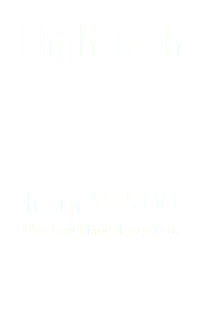
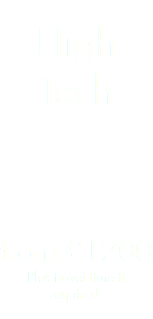
Add files via upload

diff --git a/index.html b/index.html
@@ -17,10 +17,10 @@ if(typeof Muse == "undefined") window.Muse = {}; window.Muse.assets = {"required
   <title>Matnik - Technical service for social events</title>
   <!-- CSS -->
   <link rel="stylesheet" type="text/css" href="css/site_global.css?crc=444006867"/>
-  <link rel="stylesheet" type="text/css" href="css/index.css?crc=224723055" id="pagesheet"/>
+  <link rel="stylesheet" type="text/css" href="css/index.css?crc=4175424542" id="pagesheet"/>
   <!-- IE-only CSS -->
   <!--[if lt IE 9]>
-  <link rel="stylesheet" type="text/css" href="css/nomq_index.css?crc=3898667383" id="nomq_pagesheet"/>
+  <link rel="stylesheet" type="text/css" href="css/nomq_index.css?crc=301418155" id="nomq_pagesheet"/>
   <![endif]-->
   <!-- JS includes -->
   <!--[if lt IE 9]>
@@ -31,7 +31,7 @@ if(typeof Muse == "undefined") window.Muse = {}; window.Muse.assets = {"required
  </head>
  <body>
 
-  <div class="breakpoint active" id="bp_infinity" data-min-width="961"><!-- responsive breakpoint node -->
+  <div class="breakpoint active" id="bp_infinity" data-min-width="721"><!-- responsive breakpoint node -->
    <div class="clearfix borderbox" id="page"><!-- group -->
     <div class="clearfix grpelem" id="ppu1348"><!-- column -->
      <div class="clearfix colelem" id="pu1348"><!-- group -->
@@ -69,17 +69,17 @@ if(typeof Muse == "undefined") window.Muse = {}; window.Muse.assets = {"required
       <div class="clip_frame grpelem" id="u766" data-sizePolicy="fixed" data-pintopage="page_fixedCenter"><!-- image -->
        <img class="block temp_no_img_src shared_content" id="u766_img" data-orig-src="images/pasted%20image%2036x36.png?crc=167986542" alt="" width="36" height="36" src="images/blank.gif?crc=4208392903" data-content-guid="u766_img_content"/>
       </div>
-      <img class="grpelem temp_no_img_src" id="u717-4" alt="About us" width="670" height="77" data-orig-src="images/u717-4.png?crc=163083627" src="images/blank.gif?crc=4208392903"/><!-- rasterized frame -->
+      <img class="grpelem temp_no_img_src" id="u717-4" alt="About us" width="669" height="77" data-orig-src="images/u717-4.png?crc=3796506980" src="images/blank.gif?crc=4208392903"/><!-- rasterized frame -->
      </div>
      <div class="clearfix colelem" id="pu1419"><!-- group -->
       <div class="clip_frame grpelem" id="u1419" data-sizePolicy="fluidWidthHeight" data-pintopage="page_fixedLeft"><!-- image -->
-       <img class="block temp_no_img_src" id="u1419_img" data-orig-src="images/capa%200%20copia%202.png?crc=3891860319" alt="" data-heightwidthratio="1.4341563786008231" data-image-width="486" data-image-height="697" src="images/blank.gif?crc=4208392903"/>
+       <img class="block temp_no_img_src" id="u1419_img" data-orig-src="images/capa%200%20copia%202.png?crc=3891860319" alt="" data-heightwidthratio="1.4341463414634146" data-image-width="410" data-image-height="588" src="images/blank.gif?crc=4208392903"/>
       </div>
       <div class="clip_frame grpelem" id="u1433" data-sizePolicy="fluidWidthHeight" data-pintopage="page_fixedLeft"><!-- image -->
-       <img class="block temp_no_img_src" id="u1433_img" data-orig-src="images/layer%200.png?crc=266156078" alt="" data-heightwidthratio="1.2667876588021778" data-image-width="551" data-image-height="698" src="images/blank.gif?crc=4208392903"/>
+       <img class="block temp_no_img_src" id="u1433_img" data-orig-src="images/layer%200.png?crc=266156078" alt="" data-heightwidthratio="1.2666666666666666" data-image-width="465" data-image-height="589" src="images/blank.gif?crc=4208392903"/>
       </div>
       <div class="clip_frame grpelem" id="u1611" data-sizePolicy="fluidWidthHeight" data-pintopage="page_fixedCenter"><!-- image -->
-       <img class="block temp_no_img_src" id="u1611_img" data-orig-src="images/fade-crop-u1611.png?crc=245970776" alt="" data-heightwidthratio="0.50859375" data-image-width="1280" data-image-height="651" src="images/blank.gif?crc=4208392903"/>
+       <img class="block temp_no_img_src" id="u1611_img" data-orig-src="images/fade-crop-u1611.png?crc=4052844209" alt="" data-heightwidthratio="0.5092592592592593" data-image-width="1080" data-image-height="550" src="images/blank.gif?crc=4208392903"/>
       </div>
       <div class="clearfix grpelem" id="u1416-14" data-sizePolicy="fixed" data-pintopage="page_fixedCenter"><!-- content -->
        <p class="shared_content" data-content-guid="u1416-14_0_content">We are a new company run by two brothers with more than 12 years of technical experience in social events.</p>
@@ -97,7 +97,7 @@ if(typeof Muse == "undefined") window.Muse = {}; window.Muse.assets = {"required
 </span>
       </div>
       <div class="clip_frame grpelem" id="u1634" data-sizePolicy="fluidWidthHeight" data-pintopage="page_fixedCenter" data-leftAdjustmentDoneBy="pu1275"><!-- image -->
-       <img class="block temp_no_img_src" id="u1634_img" data-orig-src="images/fade-crop-u1634.png?crc=54391656" alt="" data-heightwidthratio="0.2" data-image-width="1790" data-image-height="358" src="images/blank.gif?crc=4208392903"/>
+       <img class="block temp_no_img_src" id="u1634_img" data-orig-src="images/fade-crop-u1634.png?crc=430070315" alt="" data-heightwidthratio="0.2" data-image-width="1510" data-image-height="302" src="images/blank.gif?crc=4208392903"/>
       </div>
      </div>
      <img class="colelem temp_no_img_src" id="u632-4" alt="Service Packages " width="669" height="77" data-orig-src="images/u632-4.png?crc=4208278802" src="images/blank.gif?crc=4208392903"/><!-- rasterized frame -->
@@ -115,7 +115,7 @@ if(typeof Muse == "undefined") window.Muse = {}; window.Muse.assets = {"required
       </div>
       <div class="grpelem" id="u1631" data-sizePolicy="fixed" data-pintopage="page_fixedCenter" data-leftAdjustmentDoneBy="pu1383"><!-- simple frame --></div>
      </div>
-     <a class="nonblock nontext colelem" id="u517-4" href="http://www.musefree.com" data-sizePolicy="fixed" data-pintopage="page_fixedCenter"><!-- rasterized frame --><img class="temp_no_img_src" id="u517-4_img" alt="Contact us" width="669" height="77" data-orig-src="images/u517-4.png?crc=3855370230" src="images/blank.gif?crc=4208392903"/></a>
+     <a class="nonblock nontext colelem" id="u517-4" href="http://www.musefree.com" data-sizePolicy="fixed" data-pintopage="page_fixedCenter"><!-- rasterized frame --><img class="temp_no_img_src" id="u517-4_img" alt="Contact us" width="669" height="77" data-orig-src="images/u517-4.png?crc=275444733" src="images/blank.gif?crc=4208392903"/></a>
      <img class="colelem temp_no_img_src" id="u1593-4" alt="Facebook.com/Matnik.uk" width="224" height="23" data-orig-src="images/u1593-4.png?crc=331432554" src="images/blank.gif?crc=4208392903"/><!-- rasterized frame -->
      <img class="colelem temp_no_img_src" id="u1596-4" alt="Instagram.com/Matnik.uk" width="224" height="22" data-orig-src="images/u1596-4.png?crc=3942450564" src="images/blank.gif?crc=4208392903"/><!-- rasterized frame -->
      <img class="colelem temp_no_img_src" id="u1599-4" alt="Youtube.com/Matnik.uk" width="224" height="22" data-orig-src="images/u1599-4.png?crc=4248993681" src="images/blank.gif?crc=4208392903"/><!-- rasterized frame -->
@@ -136,7 +136,7 @@ if(typeof Muse == "undefined") window.Muse = {}; window.Muse.assets = {"required
       </div>
      </div>
     </div>
-    <div class="verticalspacer" data-offset-top="3525" data-content-above-spacer="3524" data-content-below-spacer="61" data-sizePolicy="fixed" data-pintopage="page_fixedLeft"></div>
+    <div class="verticalspacer" data-offset-top="3423" data-content-above-spacer="3422" data-content-below-spacer="61" data-sizePolicy="fixed" data-pintopage="page_fixedLeft"></div>
     <div class="grpelem shared_content" id="u1367" data-sizePolicy="fixed" data-pintopage="page_fixedCenter" data-content-guid="u1367_content"><!-- simple frame --></div>
    </div>
    <div class="preload_images">
@@ -146,7 +146,7 @@ if(typeof Muse == "undefined") window.Muse = {}; window.Muse.assets = {"required
     <img class="preload temp_no_img_src" data-orig-src="images/u755-r.png?crc=100457713" alt="" src="images/blank.gif?crc=4208392903"/>
    </div>
   </div>
-  <div class="breakpoint" id="bp_960" data-min-width="769" data-max-width="960"><!-- responsive breakpoint node -->
+  <div class="breakpoint" id="bp_720" data-min-width="321" data-max-width="720"><!-- responsive breakpoint node -->
    <div class="clearfix borderbox temp_no_id" data-orig-id="page"><!-- group -->
     <div class="clearfix grpelem temp_no_id" data-orig-id="ppu1348"><!-- column -->
      <div class="clearfix colelem temp_no_id" data-orig-id="pu1348"><!-- group -->
@@ -157,7 +157,7 @@ if(typeof Muse == "undefined") window.Muse = {}; window.Muse.assets = {"required
        <span class="block placeholder" data-placeholder-for="u1621_img_content"><!-- placeholder node --></span>
       </div>
       <div class="clip_frame grpelem temp_no_id" data-sizePolicy="fluidWidthHeight" data-pintopage="page_fixedCenter" data-leftAdjustmentDoneBy="pu1348" data-orig-id="u1358"><!-- image -->
-       <img class="block temp_no_id temp_no_img_src" data-orig-src="images/logo_mockup_matnik774x516.png?crc=36124137" alt="" data-heightwidthratio="0.6666666666666666" data-image-width="774" data-image-height="516" data-orig-id="u1358_img" src="images/blank.gif?crc=4208392903"/>
+       <img class="block temp_no_id temp_no_img_src" data-orig-src="images/logo_mockup_matnik581x387.png?crc=217245914" alt="" data-heightwidthratio="0.6672413793103448" data-image-width="580" data-image-height="387" data-orig-id="u1358_img" src="images/blank.gif?crc=4208392903"/>
       </div>
       <nav class="MenuBar clearfix grpelem temp_no_id" data-sizePolicy="fixed" data-pintopage="page_fixedCenter" data-leftAdjustmentDoneBy="pu1348" data-orig-id="menuu730"><!-- horizontal box -->
        <div class="MenuItemContainer clearfix grpelem temp_no_id" data-orig-id="u745"><!-- vertical box -->
@@ -185,16 +185,16 @@ if(typeof Muse == "undefined") window.Muse = {}; window.Muse.assets = {"required
        <span class="block placeholder" data-placeholder-for="u766_img_content"><!-- placeholder node --></span>
       </div>
      </div>
-     <img class="colelem temp_no_id temp_no_img_src" alt="About us" width="670" height="77" data-orig-src="images/u717-42.png?crc=163083627" data-orig-id="u717-4" src="images/blank.gif?crc=4208392903"/><!-- rasterized frame -->
+     <img class="colelem temp_no_id temp_no_img_src" alt="About us" width="669" height="77" data-orig-src="images/u717-42.png?crc=3796506980" data-orig-id="u717-4" src="images/blank.gif?crc=4208392903"/><!-- rasterized frame -->
      <div class="clearfix colelem temp_no_id" data-orig-id="pu1419"><!-- group -->
       <div class="clip_frame grpelem temp_no_id" data-sizePolicy="fluidWidthHeight" data-pintopage="page_fixedLeft" data-orig-id="u1419"><!-- image -->
-       <img class="block temp_no_id temp_no_img_src" data-orig-src="images/capa%200%20copia%202.png?crc=3891860319" alt="" data-heightwidthratio="1.4368131868131868" data-image-width="364" data-image-height="523" data-orig-id="u1419_img" src="images/blank.gif?crc=4208392903"/>
+       <img class="block temp_no_id temp_no_img_src" data-orig-src="images/capa%200%20copia%202274x393.png?crc=394996593" alt="" data-heightwidthratio="1.435897435897436" data-image-width="273" data-image-height="392" data-orig-id="u1419_img" src="images/blank.gif?crc=4208392903"/>
       </div>
       <div class="clip_frame grpelem temp_no_id" data-sizePolicy="fluidWidthHeight" data-pintopage="page_fixedLeft" data-orig-id="u1433"><!-- image -->
-       <img class="block temp_no_id temp_no_img_src" data-orig-src="images/layer%200.png?crc=266156078" alt="" data-heightwidthratio="1.2663438256658595" data-image-width="413" data-image-height="523" data-orig-id="u1433_img" src="images/blank.gif?crc=4208392903"/>
+       <img class="block temp_no_id temp_no_img_src" data-orig-src="images/layer%200310x393.png?crc=304248754" alt="" data-heightwidthratio="1.267741935483871" data-image-width="310" data-image-height="393" data-orig-id="u1433_img" src="images/blank.gif?crc=4208392903"/>
       </div>
       <div class="clip_frame grpelem temp_no_id" data-sizePolicy="fluidWidthHeight" data-pintopage="page_fixedCenter" data-orig-id="u1611"><!-- image -->
-       <img class="block temp_no_id temp_no_img_src" data-orig-src="images/fade-crop-u16112.png?crc=3993679043" alt="" data-heightwidthratio="0.509375" data-image-width="960" data-image-height="489" data-orig-id="u1611_img" src="images/blank.gif?crc=4208392903"/>
+       <img class="block temp_no_id temp_no_img_src" data-orig-src="images/fade-crop-u16112.png?crc=498247849" alt="" data-heightwidthratio="0.5097222222222222" data-image-width="720" data-image-height="367" data-orig-id="u1611_img" src="images/blank.gif?crc=4208392903"/>
       </div>
       <div class="clearfix grpelem temp_no_id" data-sizePolicy="fixed" data-pintopage="page_fixedRight" data-orig-id="u1416-14"><!-- content -->
        <span class="placeholder" data-placeholder-for="u1416-14_0_content"><!-- placeholder node --></span>
@@ -213,18 +213,18 @@ if(typeof Muse == "undefined") window.Muse = {}; window.Muse.assets = {"required
 
       </div>
       <div class="clip_frame grpelem temp_no_id" data-sizePolicy="fluidWidthHeight" data-pintopage="page_fixedCenter" data-orig-id="u1634"><!-- image -->
-       <img class="block temp_no_id temp_no_img_src" data-orig-src="images/fade-crop-u16342.png?crc=220434535" alt="" data-heightwidthratio="0.19955323901712585" data-image-width="1343" data-image-height="268" data-orig-id="u1634_img" src="images/blank.gif?crc=4208392903"/>
+       <img class="block temp_no_id temp_no_img_src" data-orig-src="images/fade-crop-u16342.png?crc=4254983333" alt="" data-heightwidthratio="0.19960278053624628" data-image-width="1007" data-image-height="201" data-orig-id="u1634_img" src="images/blank.gif?crc=4208392903"/>
       </div>
      </div>
-     <img class="colelem temp_no_id temp_no_img_src" alt="Service Packages " data-orig-src="images/u632-42.png?crc=4208278802" data-image-width="669" data-orig-id="u632-4" src="images/blank.gif?crc=4208392903"/><!-- rasterized frame -->
+     <img class="colelem temp_no_id temp_no_img_src" alt="Service Packages " data-orig-src="images/u632-42.png?crc=3848648480" data-image-width="501" data-orig-id="u632-4" src="images/blank.gif?crc=4208392903"/><!-- rasterized frame -->
      <div class="clearfix colelem temp_no_id" data-orig-id="u3183"><!-- group -->
-      <img class="grpelem temp_no_id temp_no_img_src" alt="&nbsp;High Tech from £1200 Plus travel time if required." data-orig-src="images/u1370-162.png?crc=4090435171" data-image-width="203" data-orig-id="u1370-16" src="images/blank.gif?crc=4208392903"/><!-- rasterized frame -->
-      <img class="grpelem temp_no_id temp_no_img_src" alt="&nbsp;High Everything you need to keep your guests entertained for the night, with the addition of a large screen from £900 Plus travel time if required." data-orig-src="images/u1374-152.png?crc=403399492" data-image-width="203" data-orig-id="u1374-15" src="images/blank.gif?crc=4208392903"/><!-- rasterized frame -->
-      <img class="grpelem temp_no_id temp_no_img_src" alt="&nbsp;Complete Everything you need to keep your guests entertained for the night, with the addition of a large screen from £700 Plus travel time if required." data-orig-src="images/u1377-152.png?crc=408595386" data-image-width="203" data-orig-id="u1377-15" src="images/blank.gif?crc=4208392903"/><!-- rasterized frame -->
-      <img class="grpelem temp_no_id temp_no_img_src" alt="&nbsp;Standard Everything you need to keep your guests entertained for the night, with the addition of a large screen from £500 Plus travel time if required." data-orig-src="images/u1380-152.png?crc=4170703472" data-image-width="203" data-orig-id="u1380-15" src="images/blank.gif?crc=4208392903"/><!-- rasterized frame -->
+      <img class="grpelem temp_no_id temp_no_img_src" alt="&nbsp;High Tech from £1200 Plus travel time if required." data-orig-src="images/u1370-162.png?crc=4280197400" data-image-width="152" data-orig-id="u1370-16" src="images/blank.gif?crc=4208392903"/><!-- rasterized frame -->
+      <img class="grpelem temp_no_id temp_no_img_src" alt="&nbsp;High Everything you need to keep your guests entertained for the night, with the addition of a large screen from £900 Plus travel time if required." data-orig-src="images/u1374-152.png?crc=4180710472" data-image-width="152" data-orig-id="u1374-15" src="images/blank.gif?crc=4208392903"/><!-- rasterized frame -->
+      <img class="grpelem temp_no_id temp_no_img_src" alt="&nbsp;Complete Everything you need to keep your guests entertained for the night, with the addition of a large screen from £700 Plus travel time if required." data-orig-src="images/u1377-152.png?crc=4109593266" data-image-width="152" data-orig-id="u1377-15" src="images/blank.gif?crc=4208392903"/><!-- rasterized frame -->
+      <img class="grpelem temp_no_id temp_no_img_src" alt="&nbsp;Standard Everything you need to keep your guests entertained for the night, with the addition of a large screen from £500 Plus travel time if required." data-orig-src="images/u1380-152.png?crc=4124764804" data-image-width="152" data-orig-id="u1380-15" src="images/blank.gif?crc=4208392903"/><!-- rasterized frame -->
      </div>
      <span class="clearfix colelem placeholder" data-placeholder-for="pu1383_content"><!-- placeholder node --></span>
-     <a class="nonblock nontext colelem temp_no_id" href="http://www.musefree.com" data-sizePolicy="fixed" data-pintopage="page_fixedCenter" data-orig-id="u517-4"><!-- rasterized frame --><img class="temp_no_id temp_no_img_src" alt="Contact us" width="669" height="77" data-orig-src="images/u517-42.png?crc=3855370230" data-orig-id="u517-4_img" src="images/blank.gif?crc=4208392903"/></a>
+     <a class="nonblock nontext colelem temp_no_id" href="http://www.musefree.com" data-sizePolicy="fixed" data-pintopage="page_fixedCenter" data-orig-id="u517-4"><!-- rasterized frame --><img class="temp_no_id temp_no_img_src" alt="Contact us" width="669" height="77" data-orig-src="images/u517-42.png?crc=275444733" data-orig-id="u517-4_img" src="images/blank.gif?crc=4208392903"/></a>
      <img class="colelem temp_no_id temp_no_img_src" alt="Facebook.com/Matnik.uk" width="224" height="23" data-orig-src="images/u1593-42.png?crc=331432554" data-orig-id="u1593-4" src="images/blank.gif?crc=4208392903"/><!-- rasterized frame -->
      <img class="colelem temp_no_id temp_no_img_src" alt="Instagram.com/Matnik.uk" width="224" height="22" data-orig-src="images/u1596-42.png?crc=3942450564" data-orig-id="u1596-4" src="images/blank.gif?crc=4208392903"/><!-- rasterized frame -->
      <img class="colelem temp_no_id temp_no_img_src" alt="Youtube.com/Matnik.uk" width="224" height="22" data-orig-src="images/u1599-42.png?crc=4248993681" data-orig-id="u1599-4" src="images/blank.gif?crc=4208392903"/><!-- rasterized frame -->
@@ -232,7 +232,7 @@ if(typeof Muse == "undefined") window.Muse = {}; window.Muse.assets = {"required
      <img class="colelem temp_no_id temp_no_img_src" alt="07984 517032 " width="224" height="23" data-orig-src="images/u1608-42.png?crc=4154448741" data-orig-id="u1608-4" src="images/blank.gif?crc=4208392903"/><!-- rasterized frame -->
      <span class="clearfix colelem placeholder" data-placeholder-for="pu1543_content"><!-- placeholder node --></span>
     </div>
-    <div class="verticalspacer" data-offset-top="3063" data-content-above-spacer="3062" data-content-below-spacer="61" data-sizePolicy="fixed" data-pintopage="page_fixedLeft"></div>
+    <div class="verticalspacer" data-offset-top="3008" data-content-above-spacer="3007" data-content-below-spacer="61" data-sizePolicy="fixed" data-pintopage="page_fixedLeft"></div>
     <span class="grpelem placeholder" data-placeholder-for="u1367_content"><!-- placeholder node --></span>
    </div>
    <div class="preload_images">
@@ -242,7 +242,7 @@ if(typeof Muse == "undefined") window.Muse = {}; window.Muse.assets = {"required
     <img class="preload temp_no_img_src" data-orig-src="images/u755-r2.png?crc=100457713" alt="" src="images/blank.gif?crc=4208392903"/>
    </div>
   </div>
-  <div class="breakpoint" id="bp_768" data-max-width="768"><!-- responsive breakpoint node -->
+  <div class="breakpoint" id="bp_320" data-max-width="320"><!-- responsive breakpoint node -->
    <div class="clearfix temp_no_id" data-orig-id="page"><!-- group -->
     <div class="temp_no_id" data-orig-id="u1367"><!-- simple frame --></div>
     <div class="clearfix grpelem temp_no_id" data-orig-id="ppu1348"><!-- column -->
@@ -254,16 +254,16 @@ if(typeof Muse == "undefined") window.Muse = {}; window.Muse.assets = {"required
        <img class="block temp_no_id temp_no_img_src" data-orig-src="images/fade.png?crc=4294955299" alt="" width="1304" height="403" data-orig-id="u1621_img" src="images/blank.gif?crc=4208392903"/>
       </div>
       <div class="clip_frame grpelem temp_no_id" data-orig-id="u1358"><!-- image -->
-       <img class="block temp_no_id temp_no_img_src" data-orig-src="images/logo_mockup_matnik619x413.png?crc=3829929830" alt="" width="619" height="413" data-orig-id="u1358_img" src="images/blank.gif?crc=4208392903"/>
+       <img class="block temp_no_id temp_no_img_src" data-orig-src="images/logo_mockup_matnik381x254.png?crc=78921686" alt="" width="381" height="254" data-orig-id="u1358_img" src="images/blank.gif?crc=4208392903"/>
       </div>
       <div class="clip_frame grpelem temp_no_id" data-orig-id="u1419"><!-- image -->
-       <img class="block temp_no_id temp_no_img_src" data-orig-src="images/capa%200%20copia%202.png?crc=3891860319" alt="" width="291" height="418" data-orig-id="u1419_img" src="images/blank.gif?crc=4208392903"/>
+       <img class="block temp_no_id temp_no_img_src" data-orig-src="images/capa%200%20copia%202206x296.png?crc=172284921" alt="" width="206" height="296" data-orig-id="u1419_img" src="images/blank.gif?crc=4208392903"/>
       </div>
       <div class="clip_frame grpelem temp_no_id" data-orig-id="u1433"><!-- image -->
-       <img class="block temp_no_id temp_no_img_src" data-orig-src="images/layer%200331x419.png?crc=3868066838" alt="" width="331" height="419" data-orig-id="u1433_img" src="images/blank.gif?crc=4208392903"/>
+       <img class="block temp_no_id temp_no_img_src" data-orig-src="images/layer%200237x299.png?crc=497770173" alt="" width="236" height="299" data-orig-id="u1433_img" src="images/blank.gif?crc=4208392903"/>
       </div>
       <div class="clip_frame grpelem temp_no_id" data-orig-id="u1611"><!-- image -->
-       <img class="block temp_no_id temp_no_img_src" data-orig-src="images/fade768x391.png?crc=287705407" alt="" width="768" height="390" data-orig-id="u1611_img" src="images/blank.gif?crc=4208392903"/>
+       <img class="block temp_no_id temp_no_img_src" data-orig-src="images/fade543x277.png?crc=111616382" alt="" width="543" height="276" data-orig-id="u1611_img" src="images/blank.gif?crc=4208392903"/>
       </div>
       <nav class="MenuBar clearfix grpelem temp_no_id" data-orig-id="menuu730"><!-- horizontal box -->
        <div class="MenuItemContainer clearfix grpelem temp_no_id" data-orig-id="u745"><!-- vertical box -->
@@ -298,14 +298,14 @@ if(typeof Muse == "undefined") window.Muse = {}; window.Muse.assets = {"required
        <span class="placeholder" data-placeholder-for="u1416-14_4_content"><!-- placeholder node --></span>
        <span class="placeholder" data-placeholder-for="u1416-14_5_content"><!-- placeholder node --></span>
       </div>
-      <img class="grpelem temp_no_id temp_no_img_src" alt="About us" width="670" height="77" data-orig-src="images/u717-43.png?crc=163083627" data-orig-id="u717-4" src="images/blank.gif?crc=4208392903"/><!-- rasterized frame -->
+      <img class="grpelem temp_no_id temp_no_img_src" alt="About us" width="669" height="77" data-orig-src="images/u717-43.png?crc=3796506980" data-orig-id="u717-4" src="images/blank.gif?crc=4208392903"/><!-- rasterized frame -->
      </div>
      <div class="clearfix colelem temp_no_id" data-orig-id="pu1275"><!-- group -->
       <div class="size_fixed grpelem temp_no_id" data-pintopage="page_fixedCenter" data-orig-id="u1275"><!-- custom html -->
        <span class="placeholder" data-placeholder-for="u1275_0_content"><!-- placeholder node --></span>
       </div>
       <div class="clip_frame grpelem temp_no_id" data-orig-id="u1634"><!-- image -->
-       <img class="block temp_no_id temp_no_img_src" data-orig-src="images/fade.png?crc=4294955299" alt="" width="1074" height="214" data-orig-id="u1634_img" src="images/blank.gif?crc=4208392903"/>
+       <img class="block temp_no_id temp_no_img_src" data-orig-src="images/fade575x115.png?crc=3983730800" alt="" width="574" height="115" data-orig-id="u1634_img" src="images/blank.gif?crc=4208392903"/>
       </div>
      </div>
      <ul class="AccordionWidget clearfix colelem" id="accordionu3828"><!-- vertical box -->
@@ -315,10 +315,12 @@ if(typeof Muse == "undefined") window.Muse = {}; window.Muse.assets = {"required
       <li class="AccordionPanel clearfix colelem" id="u3829"><!-- vertical box --><div class="AccordionPanelTab borderbox clearfix colelem" id="u3832-4"><!-- content --><div id="u3832-3"><p>Standard from £500</p></div></div><div class="AccordionPanelContent disn clearfix colelem" id="u3830"><!-- group --><img class="grpelem temp_no_img_src" id="u3831-4" alt="Everything you need to keep your guests entertained for the night, with the addition of a large screen" width="340" height="105" data-orig-src="images/u3831-4.png?crc=511606385" src="images/blank.gif?crc=4208392903"/><!-- rasterized frame --></div></li>
      </ul>
      <div class="clearfix colelem temp_no_id" data-orig-id="pu1383"><!-- group -->
-      <span class="grpelem placeholder" data-placeholder-for="u1383_content"><!-- placeholder node --></span>
+      <div class="browser_width grpelem" id="u1383-bw">
+       <span class="placeholder" data-placeholder-for="u1383_content"><!-- placeholder node --></span>
+      </div>
       <div class="grpelem temp_no_id" data-orig-id="u1631"><!-- simple frame --></div>
      </div>
-     <a class="nonblock nontext colelem temp_no_id" href="http://www.musefree.com" data-orig-id="u517-4"><!-- rasterized frame --><img class="temp_no_id temp_no_img_src" alt="Contact us" width="320" height="77" data-orig-src="images/u517-43.png?crc=3916004526" data-orig-id="u517-4_img" src="images/blank.gif?crc=4208392903"/></a>
+     <a class="nonblock nontext colelem temp_no_id" href="http://www.musefree.com" data-orig-id="u517-4"><!-- rasterized frame --><img class="temp_no_id temp_no_img_src" alt="Contact us" width="320" height="77" data-orig-src="images/u517-43.png?crc=4273334861" data-orig-id="u517-4_img" src="images/blank.gif?crc=4208392903"/></a>
      <img class="colelem temp_no_id temp_no_img_src" alt="Facebook.com/Matnik.uk" width="224" height="23" data-orig-src="images/u1593-43.png?crc=331432554" data-orig-id="u1593-4" src="images/blank.gif?crc=4208392903"/><!-- rasterized frame -->
      <img class="colelem temp_no_id temp_no_img_src" alt="Instagram.com/Matnik.uk" width="224" height="22" data-orig-src="images/u1596-43.png?crc=3942450564" data-orig-id="u1596-4" src="images/blank.gif?crc=4208392903"/><!-- rasterized frame -->
      <img class="colelem temp_no_id temp_no_img_src" alt="Youtube.com/Matnik.uk" width="224" height="22" data-orig-src="images/u1599-43.png?crc=4248993681" data-orig-id="u1599-4" src="images/blank.gif?crc=4208392903"/><!-- rasterized frame -->
@@ -366,9 +368,11 @@ var muse_init=function(){require.config({baseUrl:""});require(["jquery","museuti
 window.Muse.assets.check($);/* body */
 Muse.Utils.transformMarkupToFixBrowserProblemsPreInit();/* body */
 Muse.Utils.prepHyperlinks(true);/* body */
+Muse.Utils.resizeHeight('.browser_width');/* resize height */
+Muse.Utils.requestAnimationFrame(function() { $('body').addClass('initialized'); });/* mark body as initialized */
 Muse.Utils.makeButtonsVisibleAfterSettingMinWidth();/* body */
-Muse.Utils.initWidget('.MenuBar', ['#bp_infinity', '#bp_960', '#bp_768'], function(elem) { return $(elem).museMenu(); });/* unifiedNavBar */
-Muse.Utils.initWidget('#accordionu3828', ['#bp_768'], function(elem) { return new WebPro.Widget.Accordion(elem, {canCloseAll:false,defaultIndex:0}); });/* #accordionu3828 */
+Muse.Utils.initWidget('.MenuBar', ['#bp_infinity', '#bp_720', '#bp_320'], function(elem) { return $(elem).museMenu(); });/* unifiedNavBar */
+Muse.Utils.initWidget('#accordionu3828', ['#bp_320'], function(elem) { return new WebPro.Widget.Accordion(elem, {canCloseAll:false,defaultIndex:0}); });/* #accordionu3828 */
 Muse.Utils.fullPage('#page');/* 100% height page */
 $( '.breakpoint' ).registerBreakpoint();/* Register breakpoints */
 Muse.Utils.transformMarkupToFixBrowserProblems();/* body */
